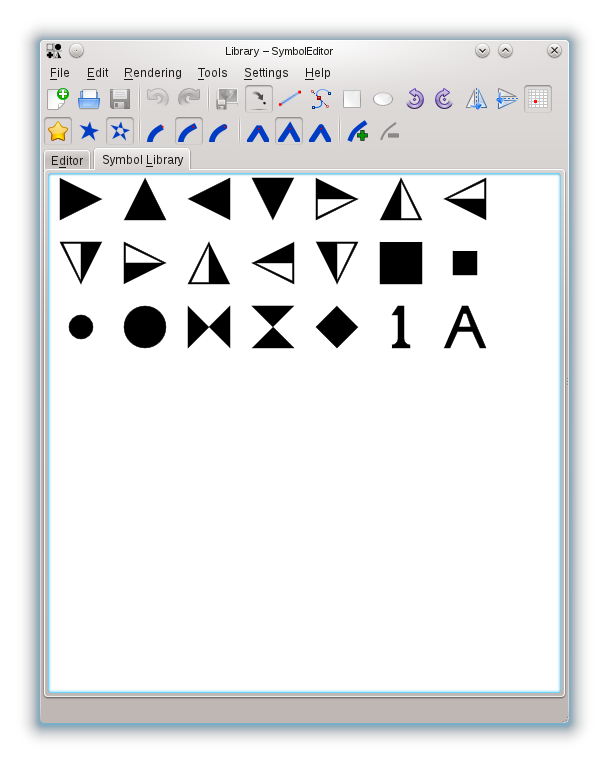
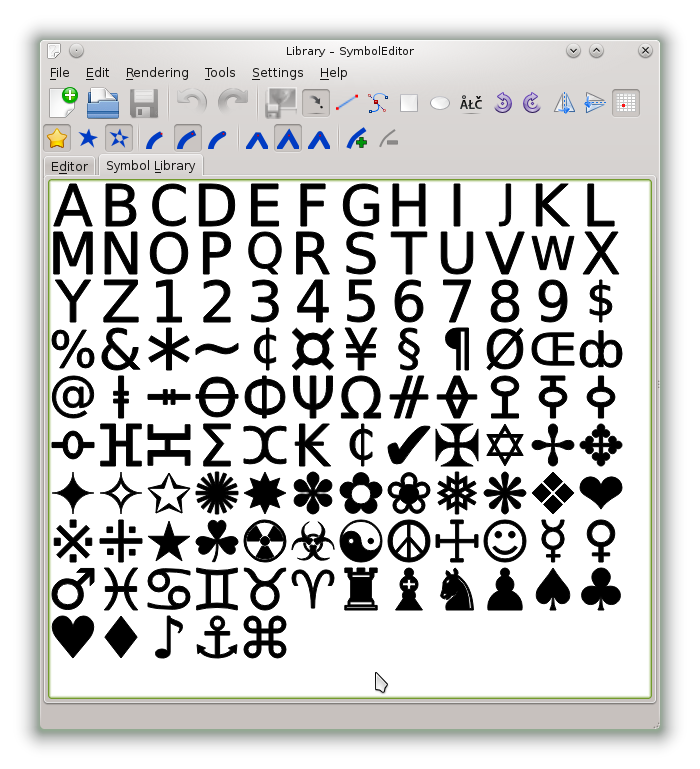
Added functionality to insert font characters
This allows selection of a character from any available font which will
then be converted to a symbol in the editor.

Added documentation for this function.

diff --git a/src/Editor.cpp b/src/Editor.cpp
@@ -55,6 +55,12 @@
  * ellipse. As with the rectangle the points can be selected by clicking two points or clicking and dragging.
  * When dragging, a rubber band ellipse will be shown indicating the ellipse.
  *
+ * @subsection character Insert Character
+ * This will display a character selection dialog allowing selection of a character from any font to be inserted as a
+ * symbol. Double click the required character which will then be converted to a symbol format in the editor. Further changes
+ * can then be made to it as needed. This selection will replace any current symbol definition in the editor. The dialog
+ * will remain open, allowing a select, save, repeat work flow rapidly building up a library of symbols.
+ *
  * @subsection rotate_left Rotate Left
  * Rotate the symbol counter clockwise 90 degrees.
  *
@@ -124,7 +130,7 @@
  * the left mouse button and drag the point to its new location.
  *
  * @section editing_symbols Editing Symbols
- * Editing a symbol in the library can be done by double clicking the symbol in the library view. This will
+ * Editing a symbol in the library can be done by clicking the symbol in the library view. This will
  * transfer the symbol into the editor allowing it to be changed and saved. In this scenario there is a link
  * between the symbol being edited and the library, so saving does update the correct symbol. If you wish to
  * use this symbol as a basis for other symbols using rotation and flipping, use the File->Save Symbol as New
@@ -138,6 +144,8 @@
 #include <QAction>
 #include <QMouseEvent>
 #include <QPainter>
+
+#include <KCharSelect>
 
 #include <math.h>
 
@@ -163,7 +171,8 @@ const int pointsRequired[] = {1, 1, 3, 2, 2};   /**< The number of points requir
 Editor::Editor(QWidget *parent)
     :   QWidget(parent),
         m_size(gridElements*elementSize),
-        m_index(0)
+        m_index(0),
+        m_charSelect(0)
 {
     resize(m_size + 1, m_size + 1);
     setMinimumSize(size());
@@ -186,6 +195,7 @@ Editor::Editor(QWidget *parent)
  */
 Editor::~Editor()
 {
+    delete m_charSelect;
 }
 
 
@@ -495,6 +505,24 @@ void Editor::setLineWidth(double width)
 
 
 /**
+ * Set the painter path to the requested path updating the points lists and the view.
+ *
+ * @param path contains the new path
+ *
+ * @return the old path
+ */
+QPainterPath Editor::setPath(const QPainterPath &path)
+{
+    QPainterPath originalPath = m_painterPath;
+    m_painterPath = path;
+    deconstructPainterPath();
+    update();
+
+    return originalPath;
+}
+
+
+/**
  * Clear the editor to represent a blank symbol.
  * Delete the existing data and update the display.
  */
@@ -526,6 +554,8 @@ QUndoStack *Editor::undoStack()
  * Select the next tool.
  * Remove any points that may have been used in the last tool command but not yet committed.
  * Set the tool mode from the sending actions data.
+ * If the character selector tool is selected, display a KCharSelect widget to get a character to be
+ * inserted otherwise hide the KCharSelect widget.
  *
  * @param action a pointer to the action triggering the selection
  */
@@ -533,6 +563,41 @@ void Editor::selectTool(QAction *action)
 {
     m_activePoints.clear();
     m_toolMode = static_cast<Editor::ToolMode>(action->data().toInt());
+
+    if (m_toolMode == Editor::Character) {
+        if (m_charSelect == 0) {
+            m_charSelect = new KCharSelect(0, 0);
+            connect(m_charSelect, SIGNAL(charSelected(QChar)), this, SLOT(charSelected(QChar)));
+        }
+
+        m_charSelect->show();
+    } else if (m_charSelect) {
+        m_charSelect->hide();
+    }
+}
+
+
+/**
+ * Called when a character is selected from the KCharSelect widget. Create a QPainterPath object and
+ * make it available to the editor for insertion.
+ *
+ * @param char a QChar containing the character selected.
+ */
+void Editor::charSelected(const QChar &character)
+{
+    QPainterPath path;
+    QFont font = m_charSelect->currentFont();
+    path.addText(0.0, 0.0, font, QString(character));
+
+    // scale the path to fit the bounding rectangle to fit in a rectangle 0,0-1,1  maintaining
+    // aspect ratio.
+    QRectF boundingRect = path.boundingRect();
+
+    double scale = double(gridElements - 4) / double(std::max(boundingRect.width(), boundingRect.height()) * gridElements);
+    QTransform transform = QTransform::fromTranslate(-boundingRect.center().x(), -boundingRect.center().y()) * QTransform::fromScale(scale, scale) * QTransform::fromTranslate(0.5, 0.5);
+    path = transform.map(path);
+
+    m_undoStack.push(new AddCharacterCommand(this, path));
 }
 
 

diff --git a/src/Editor.h b/src/Editor.h
@@ -34,6 +34,8 @@ class QMouseMoveEvent;
 class QMouseReleaseEvent;
 class QPaintEvent;
 
+class KCharSelect;
+
 
 /**
  * @brief Manages the editor window allowing user interaction with the various tools.
@@ -74,7 +76,7 @@ class Editor : public QWidget
     Q_OBJECT
 
 public:
-    enum ToolMode {MoveTo, LineTo, CubicTo, Rectangle, Ellipse};
+    enum ToolMode {MoveTo, LineTo, CubicTo, Rectangle, Ellipse, Character};
 
     explicit Editor(QWidget *parent = 0);
     ~Editor();
@@ -98,6 +100,7 @@ public:
     void setCapStyle(Qt::PenCapStyle capStyle);
     void setJoinStyle(Qt::PenJoinStyle joinStyle);
     void setLineWidth(double width);
+    QPainterPath setPath(const QPainterPath &path);
 
     void clear();
 
@@ -105,6 +108,7 @@ public:
 
 public slots:
     void selectTool(QAction *action);
+    void charSelected(const QChar &character);
     void enableSnap(bool enabled);
     void selectFilled(bool enabled);
     void selectFillRule(QAction *action);
@@ -180,6 +184,8 @@ private:
     QLineF              m_bottomEdge;               /**< represents the bottom edge of the editor from 0,1 to 1,1 */
     QLineF              m_leftEdge;                 /**< represents the left edge of the editor from 0,1 to 0,1 */
     QLineF              m_rightEdge;                /**< represents the right edge of the editor from 1,0 to 1,1 */
+
+    KCharSelect         *m_charSelect;              /**< pointer to KCharSelect dialog used to add characters to paths */
 };
 
 

diff --git a/src/MainWindow.cpp b/src/MainWindow.cpp
@@ -119,7 +119,7 @@
  * to the grid intersections if the snap option is turned on, otherwise they can be positioned anywhere.
  *
  * The symbol can be rotated clockwise and counter clockwise and also flipped vertically and horizontally. This allows
- * multiple symbols to be easily created based on the same design.
+ * multiple symbols to be easily created based on the same design. Remember to use the save symbol as new option for this.
  *
  * For full details of the tools see the @ref editor_tools.
  *
@@ -131,6 +131,7 @@
  * - @ref cubic_to
  * - @ref rectangle
  * - @ref ellipse
+ * - @ref character
  * - @ref rotate_left
  * - @ref rotate_right
  * - @ref flip_horizontal
@@ -904,6 +905,14 @@ void MainWindow::setupActions()
     action->setIcon(KIcon("draw-ellipse"));
     action->setCheckable(true);
     actions->addAction("ellipse", action);
+    actionGroup->addAction(action);
+
+    action = new KAction(this);
+    action->setText(i18n("Insert Character"));
+    action->setData(Editor::Character);
+    action->setIcon(KIcon("character-set"));
+    action->setCheckable(true);
+    actions->addAction("character", action);
     actionGroup->addAction(action);
 
     connect(actionGroup, SIGNAL(triggered(QAction*)), m_editor, SLOT(selectTool(QAction*)));

diff --git a/src/Commands.cpp b/src/Commands.cpp
@@ -971,3 +971,29 @@ void DragAndDropCommand::undo()
 
     m_indexes.clear();
 }
+
+
+/**
+ * Constructor.
+ *
+ * @param editor a pointer to the editor
+ * @param path the QPainterPath representing the character glyph
+ */
+AddCharacterCommand::AddCharacterCommand(Editor *editor, const QPainterPath &path)
+    :   QUndoCommand(i18n("Add Character")),
+        m_editor(editor),
+        m_path(path)
+{
+}
+
+
+void AddCharacterCommand::redo()
+{
+    m_path = m_editor->setPath(m_path);
+}
+
+
+void AddCharacterCommand::undo()
+{
+    m_path = m_editor->setPath(m_path);
+}

diff --git a/src/SymbolLibrary.cpp b/src/SymbolLibrary.cpp
@@ -41,6 +41,9 @@
  * Using the File->Import Library it is also possible to import symbols from another symbol file into the current
  * symbol library. These will then be appended to the current set of symbols.
  *
+ * The symbol library view also allows drag and drop of symbols between instances of the SymbolEditor, so if you
+ * want to copy a number of symbols without importing them all, this can be done on an individual basis.
+ *
  * File->Close will close the current library leaving a new empty library that new symbols can be added to.
  */
 

diff --git a/src/Commands.h b/src/Commands.h
@@ -504,5 +504,24 @@ private:
 };
 
 
+/**
+ * @brief Add a fonted character as a symbol.
+ *
+ * Allows a character to be added after selection from the KCharSelect dialog.
+ */
+class AddCharacterCommand : public QUndoCommand
+{
+public:
+    AddCharacterCommand(Editor *editor, const QPainterPath &path);
+
+    virtual void redo();
+    virtual void undo();
+
+private:
+    Editor          *m_editor;
+    QPainterPath    m_path;
+};
+
+
 #endif
 
